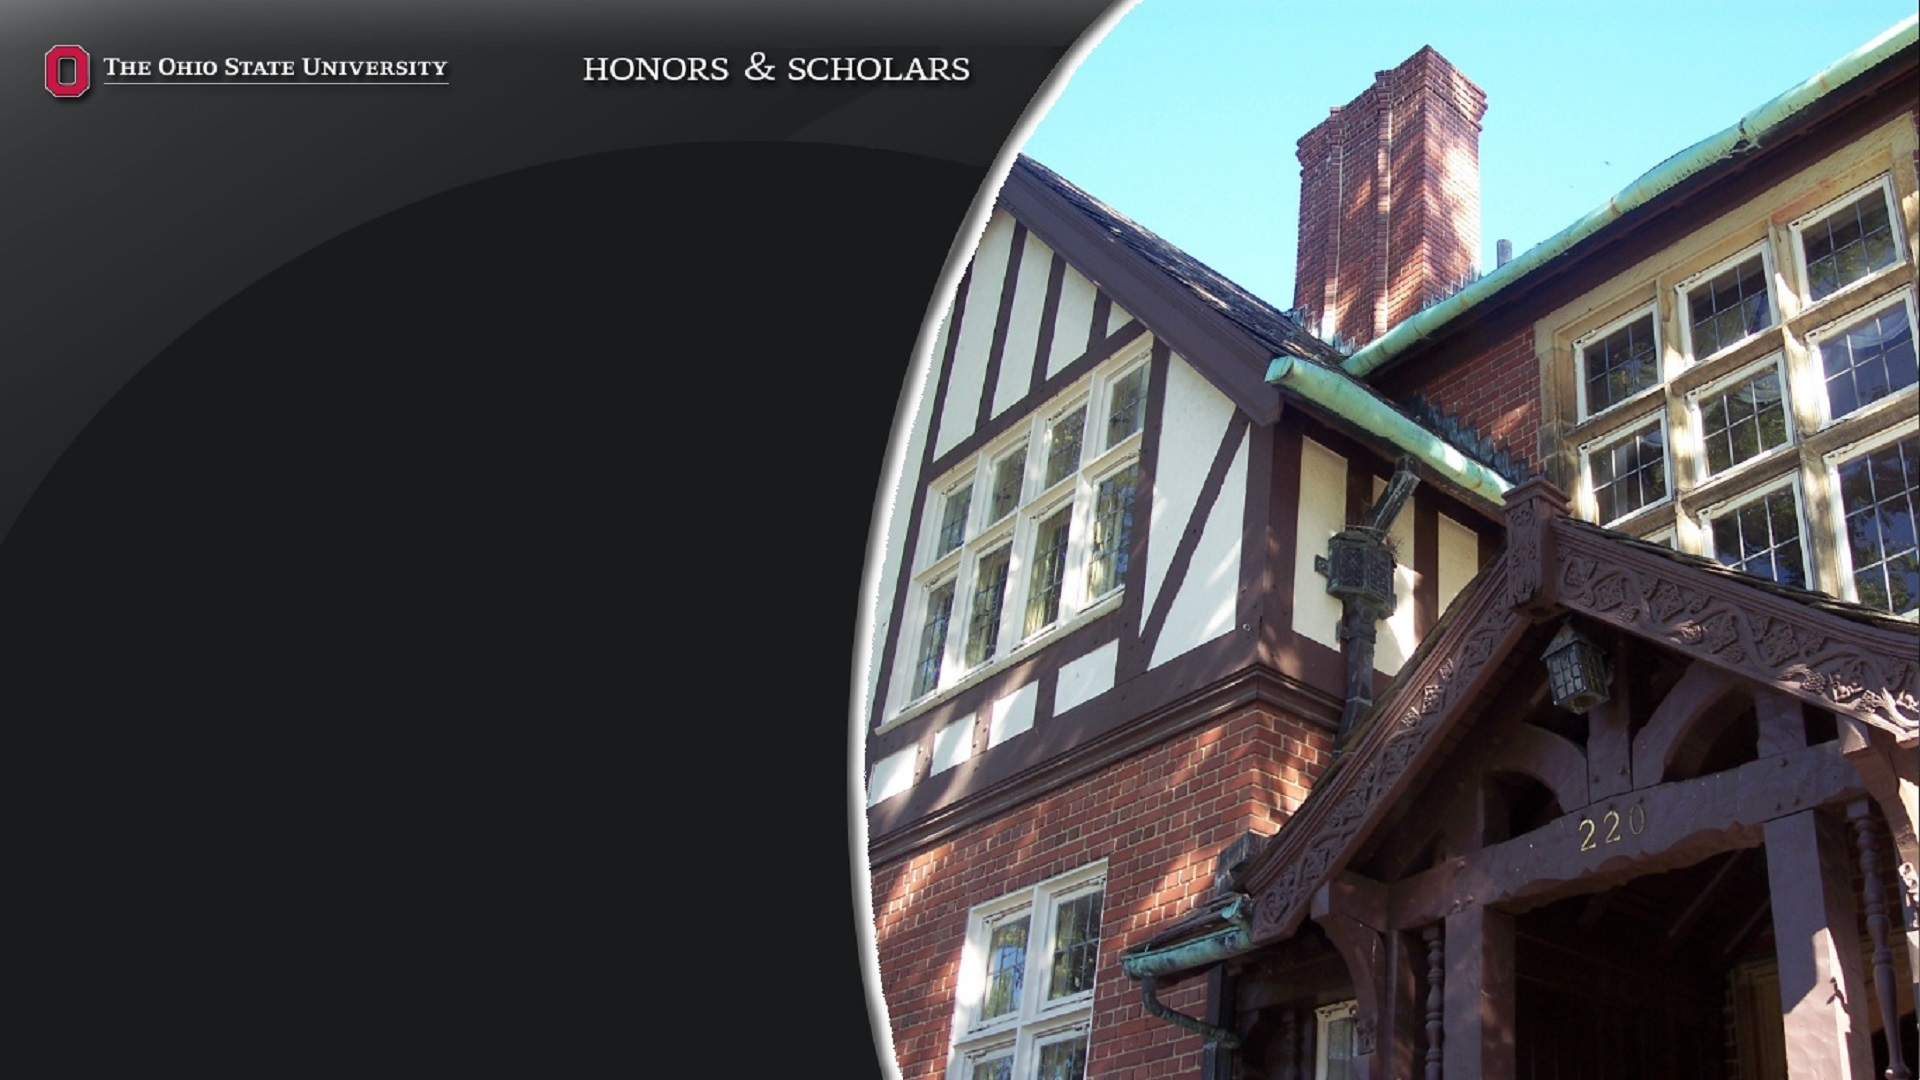
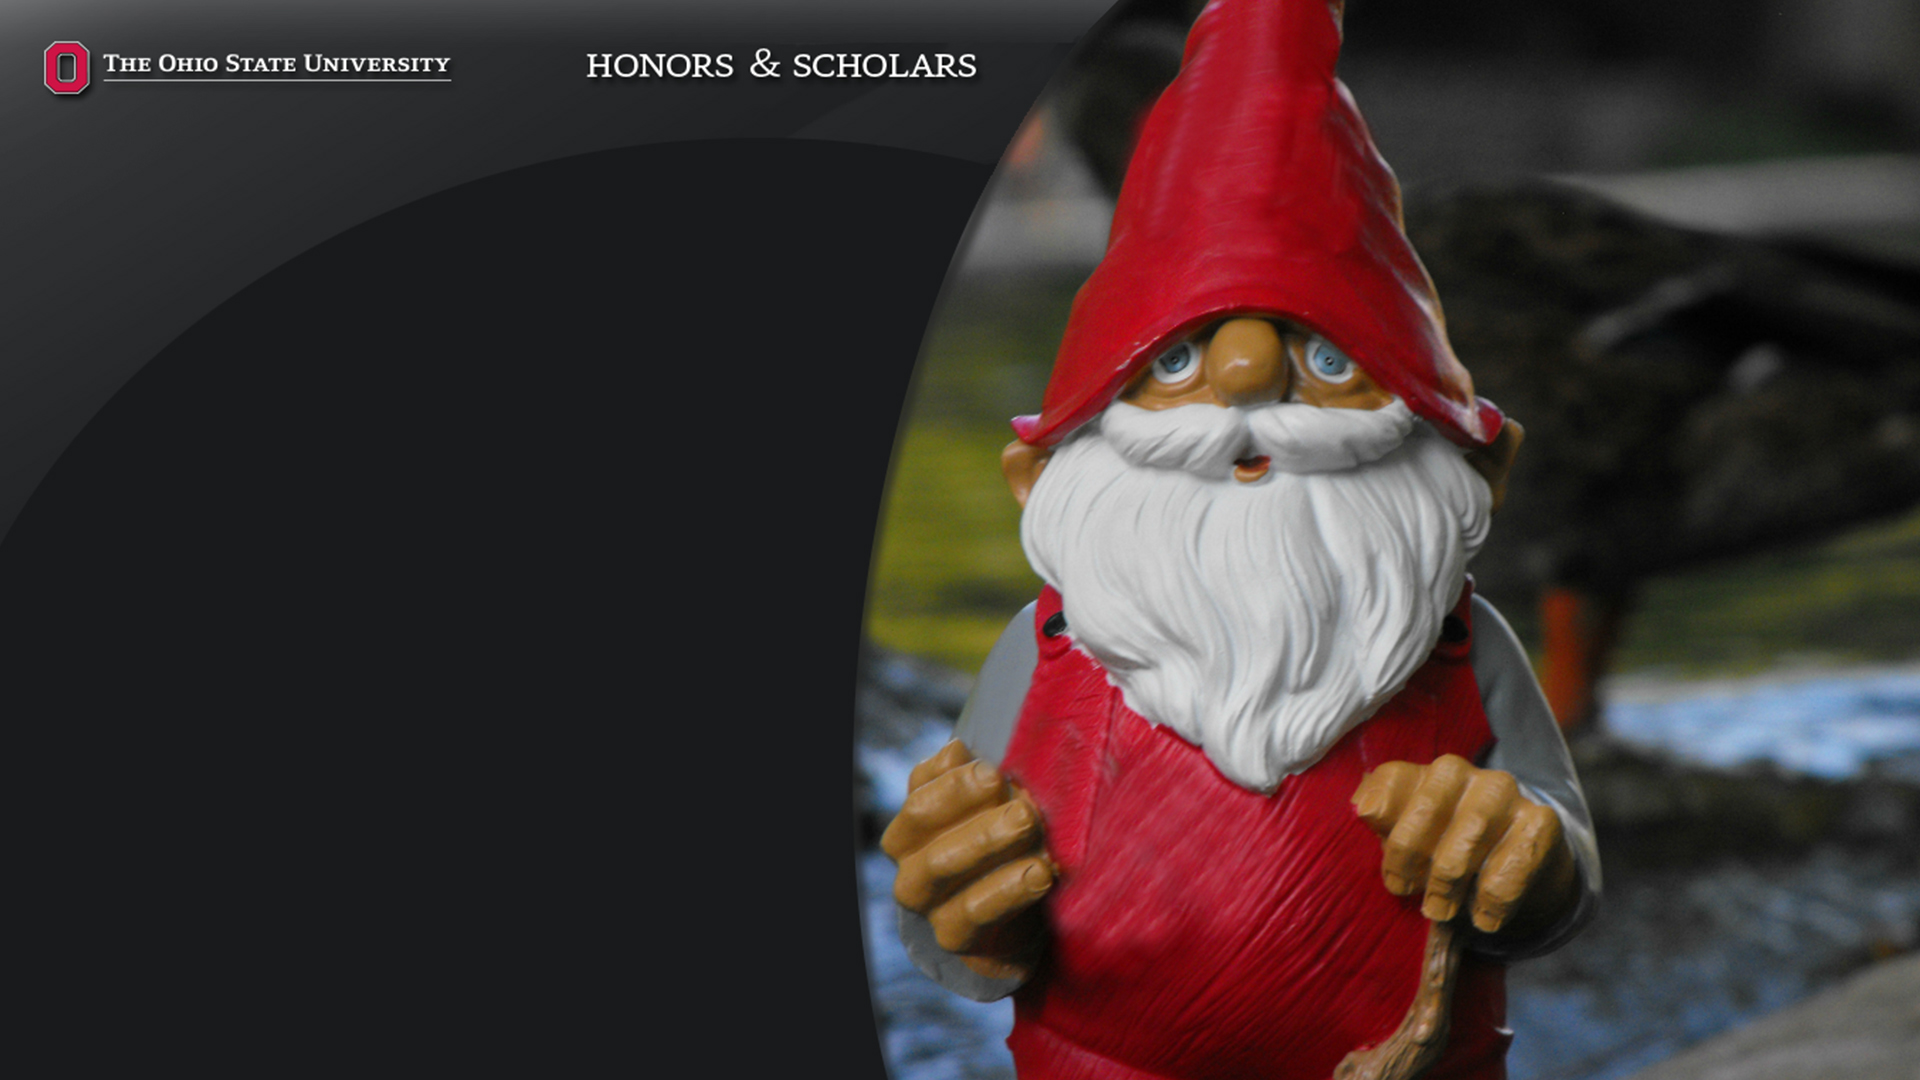
improved templates, added alternate back/front image test (WIP)

diff --git a/tv/tv.jpg.php b/tv/tv.jpg.php
@@ -17,6 +17,24 @@
 			imagejpeg($img);
 			imagedestroy($img);
 		}
+/*	Merging Create Image, not fully functional yet
+		public function createImage2() {
+			$rand = rand(1,2);
+			$imgFront = "img/front.png";
+			$imgBack = "img/back".$rand.".jpg";
+			$img = imagecreatefrompng($imgFront);
+			$img2 = imagecreatefromjpeg($imgBack);
+			$white = imagecolorallocate($img, 255, 255, 255);
+			$scarlet = imagecolorallocate($img, 187, 0, 0);
+			imagettftext($img, 28, 0, 50, 165, $white, "lib/arial.ttf", $this->text);
+			imagettftext($img, 27, 0, 50, 1030, $scarlet, "lib/arial.ttf", "http://honors-scholars.osu.edu");
+			imagealphablending($img, false);
+			imagesavealpha($img, true);
+			imagecopyresampled($img2, $img, 900, 0, 0, 0, 1920, 1080, 1020, 1020);
+			imagejpeg($img);
+			imagedestroy($img);
+		}
+*/
 	}
 
 	if (isset($_POST["linkGet"]) || isset($_POST["linkGetDL"])) {
